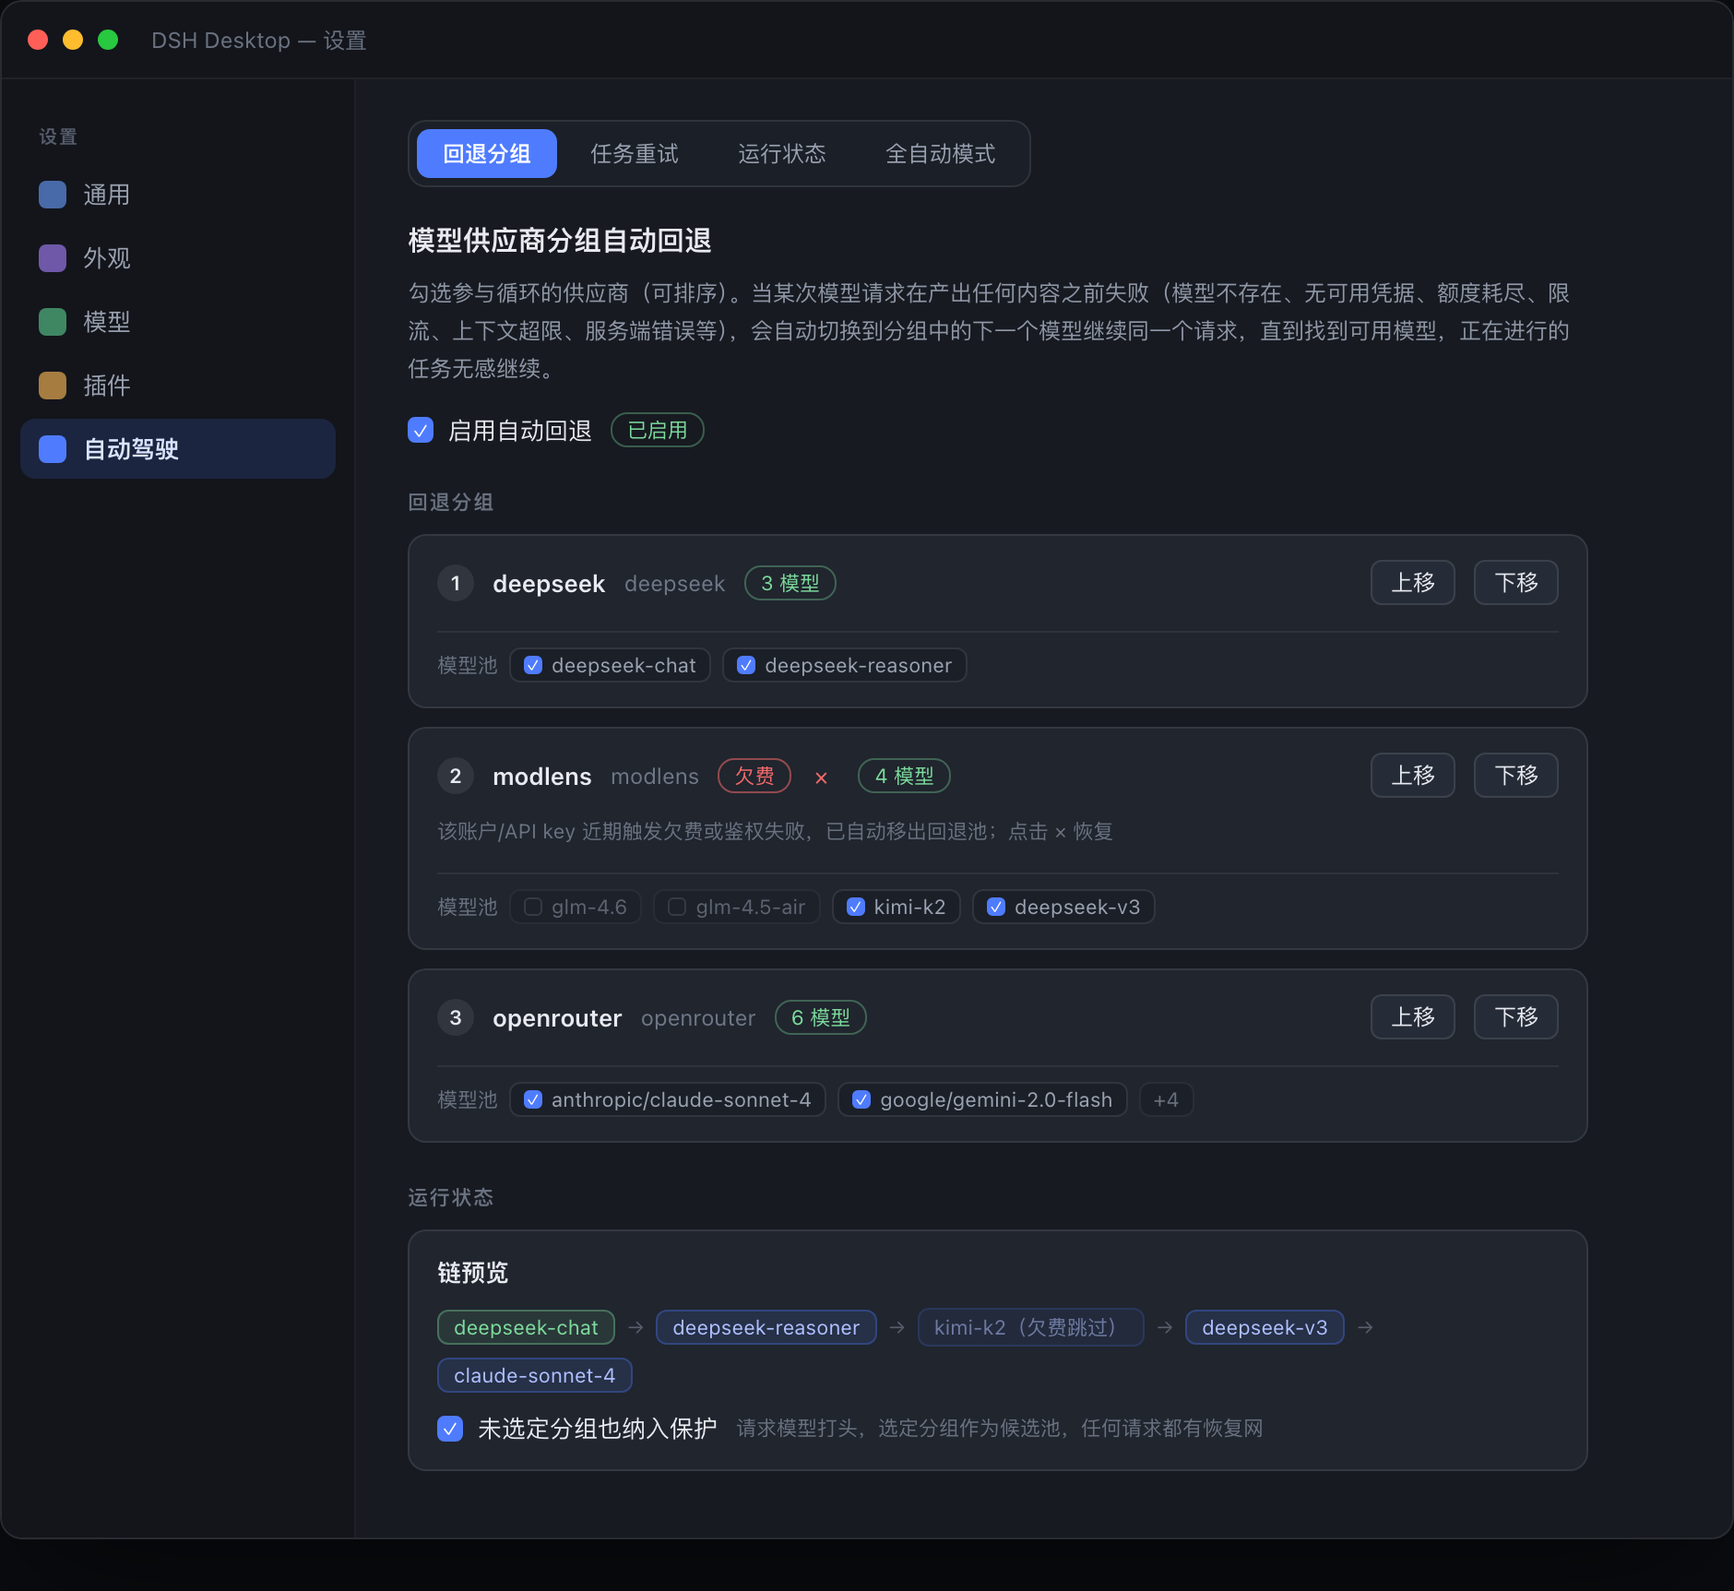
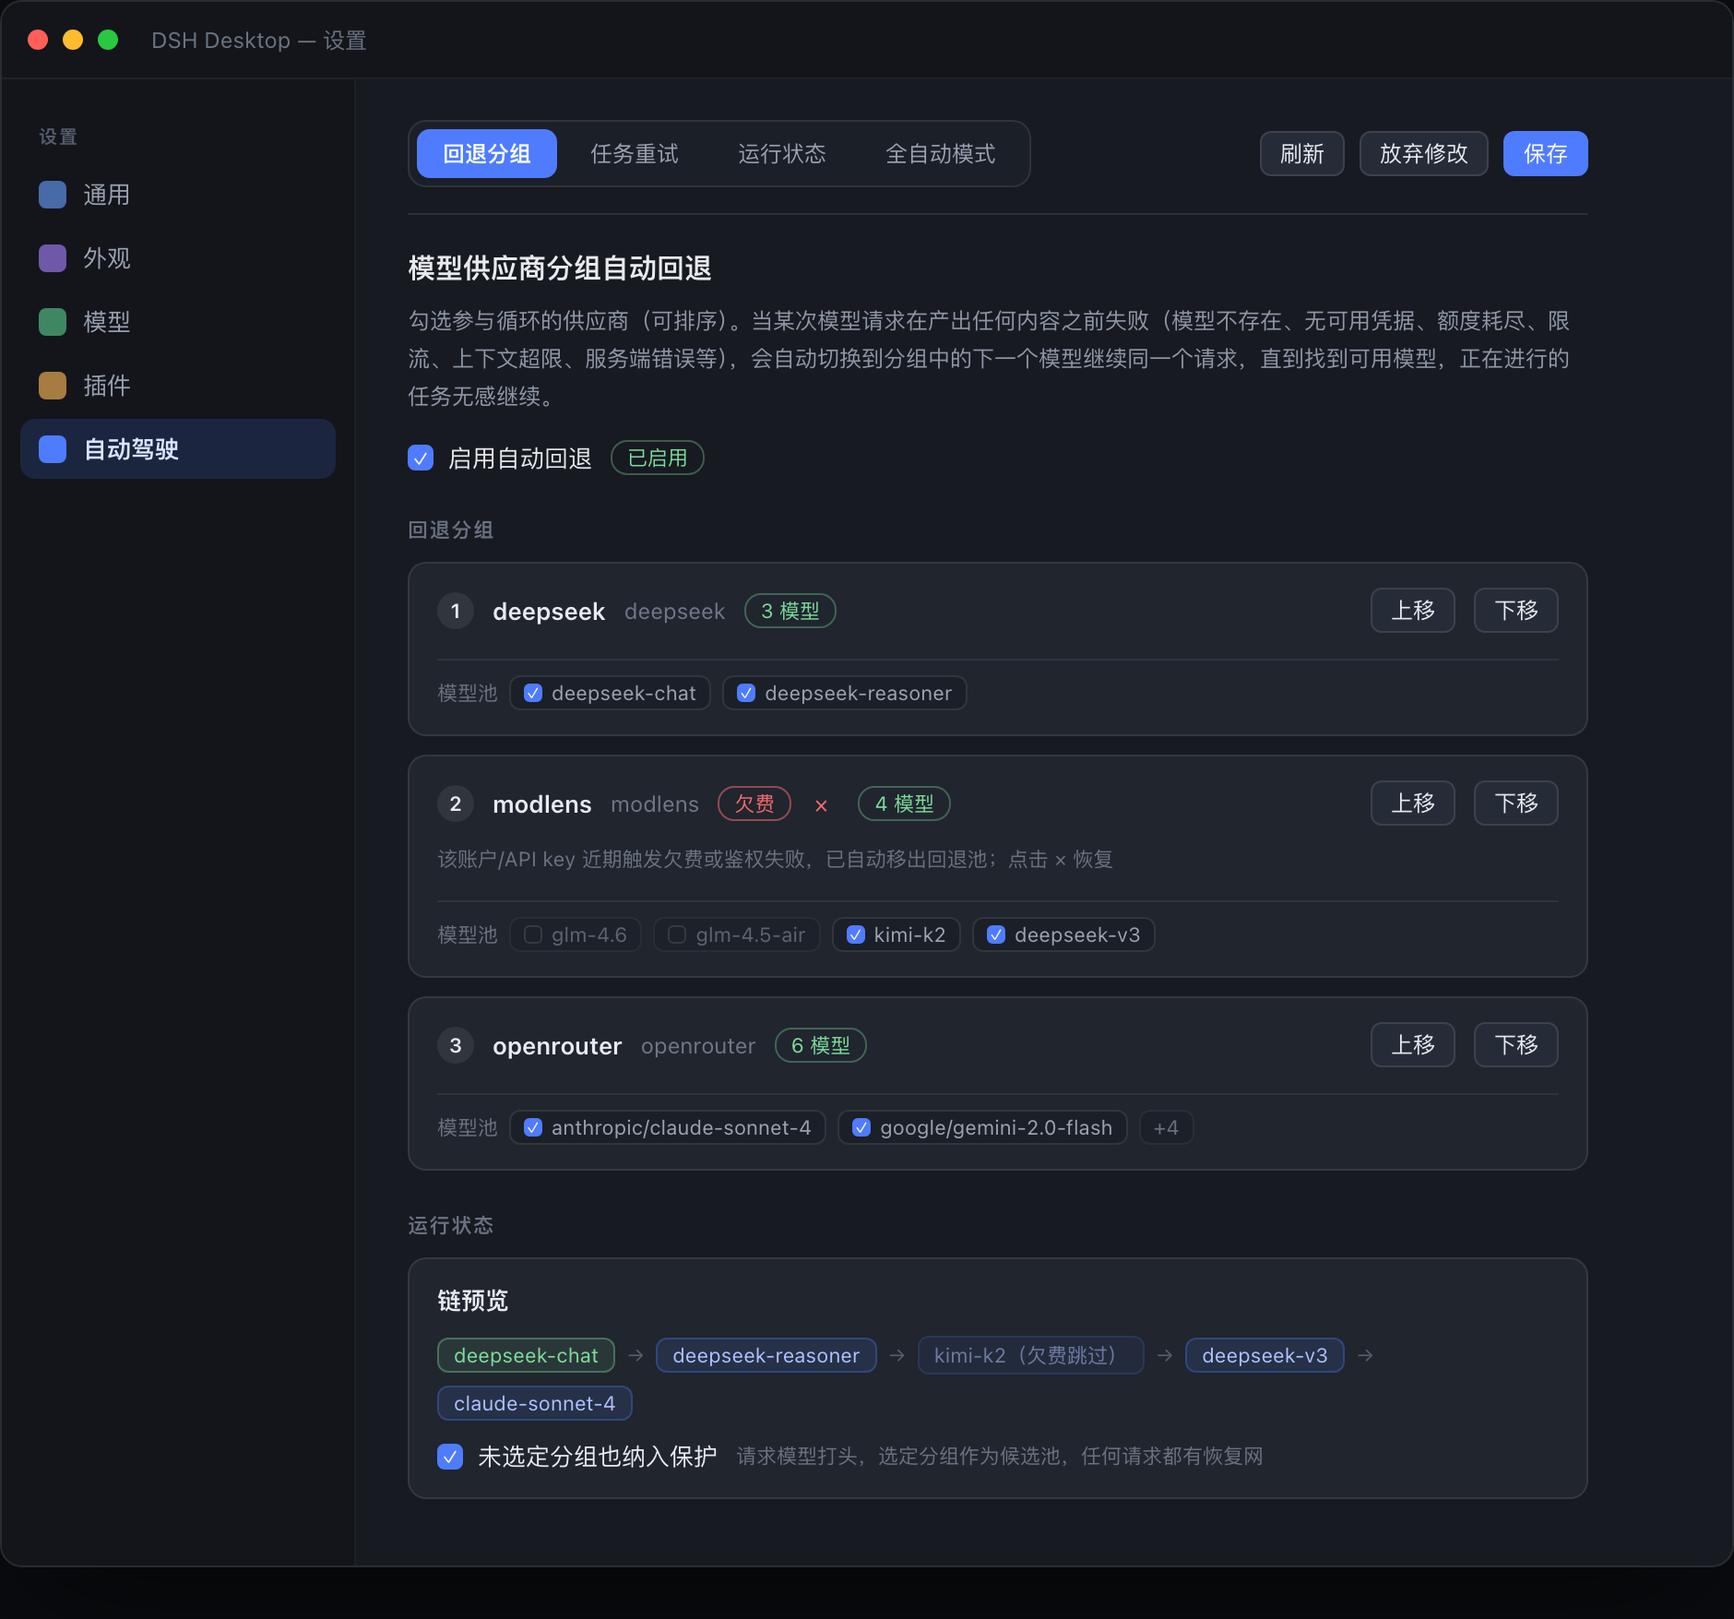
feat(client): 设置页固定工具栏（子菜单+操作按钮）；切换/自动审批统一气泡通知（单实例30秒）

diff --git a/lib/client.js b/lib/client.js
@@ -114,6 +114,14 @@ window.__ModuleLoader__.load({
 			`.dshmfb-tabDot{width:6px;height:6px;border-radius:999px;background:var(--mfb-amber);flex:none}`,
 			`.dshmfb-tabPane{display:flex;flex-direction:column;gap:14px}`,
 			`.dshmfb-tabPaneOff{display:none}`,
+			// ── sticky toolbar: sub-menu left, page actions right ──
+			`.dshmfb-toolbar{position:sticky;top:0;z-index:20;display:flex;align-items:center;gap:10px;flex-wrap:wrap;background:var(--dsw-alias-bg-layer-1,#171a21);margin:-6px 0 -4px;padding:10px 0 12px;border-bottom:1px solid var(--mfb-border)}`,
+			`.dshmfb-toolbarActions{margin-left:auto;display:inline-flex;align-items:center;gap:8px;flex-wrap:wrap}`,
+			// ── toast bubble (README mockup style: amber pill, single instance) ──
+			`.dshmfb-toastHost{position:fixed;top:18px;right:18px;z-index:2147483000;pointer-events:none;display:flex;flex-direction:column;align-items:flex-end}`,
+			`.dshmfb-toast{display:inline-flex;align-items:center;gap:8px;padding:8px 16px;border-radius:999px;background:rgba(224,162,76,.12);border:1px solid rgba(224,162,76,.45);color:#ecc387;font-size:12px;line-height:1.5;box-shadow:0 8px 24px rgba(0,0,0,.28);opacity:0;transform:translateY(-8px);transition:opacity .2s ease,transform .2s ease;max-width:min(420px,calc(100vw - 48px));pointer-events:auto;overflow-wrap:anywhere}`,
+			`.dshmfb-toastShow .dshmfb-toast{opacity:1;transform:translateY(0)}`,
+			`.dshmfb-toastDot{width:7px;height:7px;border-radius:999px;background:#e0a24c;box-shadow:0 0 6px rgba(224,162,76,.8);flex:none}`,
 			`.dshmfb-arrearsClose{margin-left:2px;border:none;background:transparent;color:var(--mfb-red);cursor:pointer;font-size:14px;line-height:1;padding:0 2px}`,
 			`.dshmfb-arrearsClose:hover:not(:disabled){color:#ff6b6b}`,
 			`.dshmfb-arrearsClose:disabled{opacity:.45;cursor:default}`,
@@ -1120,24 +1128,38 @@ window.__ModuleLoader__.load({
 			return h(
 				"div",
 				{ className: "dshmfb" },
-				// ── sub-menu bar: one settings tab, four function panes ──
+				// ── sticky toolbar: sub-menu left, page actions right ──
 				h(
 					"div",
-					{ className: "dshmfb-tabs", role: "tablist", "aria-label": t("rootNav") },
-					tabs.map((entry) =>
-						h(
-							"button",
-							{
-								key: entry.id,
-								type: "button",
-								className: tab === entry.id ? "dshmfb-tab dshmfb-tabOn" : "dshmfb-tab",
-								"aria-selected": tab === entry.id,
-								onClick: () => setTab(entry.id),
-							},
-							entry.label,
-							entry.dirty ? h("span", { key: "dot", className: "dshmfb-tabDot", title: t("unsaved") }) : null,
+					{ className: "dshmfb-toolbar" },
+					h(
+						"div",
+						{ className: "dshmfb-tabs", role: "tablist", "aria-label": t("rootNav") },
+						tabs.map((entry) =>
+							h(
+								"button",
+								{
+									key: entry.id,
+									type: "button",
+									className: tab === entry.id ? "dshmfb-tab dshmfb-tabOn" : "dshmfb-tab",
+									"aria-selected": tab === entry.id,
+									onClick: () => setTab(entry.id),
+								},
+								entry.label,
+								entry.dirty ? h("span", { key: "dot", className: "dshmfb-tabDot", title: t("unsaved") }) : null,
+							),
 						),
 					),
+					tab === "groups"
+						? h(
+								"div",
+								{ className: "dshmfb-toolbarActions" },
+								h("button", { className: "dshmfb-btn", type: "button", onClick: load, disabled: catalog.status === "loading" }, catalog.status === "loading" ? t("refreshing") : t("refresh")),
+								h("button", { className: "dshmfb-btn", type: "button", onClick: () => setDraft(null), disabled: !dirty || saving }, t("discard")),
+								h("button", { className: "dshmfb-btn dshmfb-primary", type: "button", onClick: save, disabled: !dirty || saving || !writable }, saving ? t("saving") : t("save")),
+								dirty && ready && !saving ? h("span", { className: "dshmfb-status" }, t("unsaved")) : null,
+							)
+						: null,
 				),
 
 				// ── pane 1: fallback groups (selection + strategies + save) ──
@@ -1194,15 +1216,6 @@ window.__ModuleLoader__.load({
 								),
 							)
 						: null,
-					// Group-section actions right under the list they govern.
-					h(
-						"div",
-						{ className: "dshmfb-footer" },
-						h("button", { className: "dshmfb-btn", type: "button", onClick: load, disabled: catalog.status === "loading" }, catalog.status === "loading" ? t("refreshing") : t("refresh")),
-						h("button", { className: "dshmfb-btn", type: "button", onClick: () => setDraft(null), disabled: !dirty || saving }, t("discard")),
-						h("button", { className: "dshmfb-btn dshmfb-primary", type: "button", onClick: save, disabled: !dirty || saving || !writable }, saving ? t("saving") : t("save")),
-						dirty && ready && !saving ? h("span", { className: "dshmfb-status" }, t("unsaved")) : null,
-					),
 				),
 
 				// ── pane 2: task retry (own card with its own save) ──
@@ -1237,22 +1250,115 @@ window.__ModuleLoader__.load({
 		}
 		//#endregion
 
-		/** Session/model services captured at apply() for the switch-visibility helpers. */
-		const switchServices = { sessions: null, modelDirectories: null };
+		/** Model-directory services captured at apply() for the selector sync helper. */
+		const switchServices = { modelDirectories: null };
+
+		//#region toast bubble (README mockup style: amber pill, single instance, 30 s)
+		const TOAST_MS = 30000;
+		let toastHideTimer = null;
+
+		function ensureToastHost() {
+			if (typeof document === "undefined") return null;
+			let host = document.getElementById("dshmfb-toast-host");
+			if (!host) {
+				host = document.createElement("div");
+				host.id = "dshmfb-toast-host";
+				host.className = "dshmfb-toastHost";
+				document.body.appendChild(host);
+			}
+			return host;
+		}
 
 		/**
-		 * Raise a notice in one session's input area (the same channel the
-		 * official queue dock uses), so a model switch is visible in the chat.
+		 * Show THE bubble: a single fixed-position pill (top-right) in the README
+		 * mockup style. A new toast replaces the current one (never stacks) and
+		 * stays visible for 30 s; identical text within 15 s only refreshes the
+		 * timer instead of replaying the entrance animation.
 		 */
-		function notifySession(sessionId, level, text) {
-			try {
-				const actx = switchServices.sessions?.scope(sessionId);
-				const conversation = actx?.get("conversation");
-				if (conversation === undefined) return;
-				conversation.input.for(actx).notify(level, text);
-			} catch {
-				// The session may have closed between the event and the notice.
+		function showToast(text) {
+			const host = ensureToastHost();
+			if (!host || !text) return;
+			const now = Date.now();
+			const refreshOnly = host.dataset.text === text && now - Number(host.dataset.at || 0) < TOAST_MS / 2;
+			const pill = document.createElement("div");
+			pill.className = "dshmfb-toast";
+			const dot = document.createElement("span");
+			dot.className = "dshmfb-toastDot";
+			const label = document.createElement("span");
+			label.textContent = String(text);
+			pill.appendChild(dot);
+			pill.appendChild(label);
+			host.replaceChildren(pill);
+			host.dataset.text = String(text);
+			host.dataset.at = String(now);
+			if (!refreshOnly) {
+				// restart the entrance animation
+				host.classList.remove("dshmfb-toastShow");
+				void host.offsetWidth;
 			}
+			host.classList.add("dshmfb-toastShow");
+			clearTimeout(toastHideTimer);
+			toastHideTimer = setTimeout(() => host.classList.remove("dshmfb-toastShow"), TOAST_MS);
+		}
+		//#endregion
+
+		/**
+		 * Human-readable toast for one ring event: model switch / recovery, or a
+		 * full-auto decision (auto-answered question / auto-allowed permission).
+		 * Returns { text, model } — model is set only for switch/recovery events
+		 * (the session pill uses it to sync the model selector).
+		 */
+		function ringEventText(entry, t) {
+			const switchMatch = /switching to ([^;)]+)$/.exec(entry.message) ?? /switching to ([^;)]+?);/.exec(entry.message);
+			const recoveredMatch = /request recovered on ([^ ]+) after/.exec(entry.message);
+			const autoAllowed = /auto-answered \((.+)\); logged/.exec(entry.message);
+			const autoPermission = /permission for "([^"]+)" auto-allowed/.exec(entry.message);
+			const model = switchMatch?.[1] ?? recoveredMatch?.[1];
+			if (model !== undefined) {
+				const from = String(entry.message.match(/^(?:model-fallback: )?([^ ]+) failed/) ?? ["", ""])[1];
+				const text = switchMatch
+					? t("switchNotify").replace("{from}", from).replace("{to}", model)
+					: t("switchRecovered").replace("{model}", model);
+				return { text, model };
+			}
+			if (autoAllowed) return { text: `${t("autoAnsweredNotice")}: ${autoAllowed[1]}` };
+			if (autoPermission) return { text: `${t("autoAllowedNotice")}: ${autoPermission[1]}` };
+			return null;
+		}
+
+		/**
+		 * Global toast feed: polls the event ring independently of any session so
+		 * fallback switches and full-auto decisions bubble up even when no
+		 * conversation input (and thus no session pill) is mounted — e.g. while
+		 * the user is on the settings page. Session pills poll faster with their
+		 * own cursors; identical text within 15 s only refreshes the toast.
+		 */
+		const globalFeed = { started: false, lastSeenAt: null };
+		async function pollRingForToasts(t) {
+			try {
+				const response = await fetch("/dsh-model-fallback/api/log", { cache: "no-store" });
+				if (!response.ok) return;
+				const payload = await response.json();
+				const events = Array.isArray(payload?.events) ? payload.events : [];
+				const fresh = globalFeed.lastSeenAt === null ? [] : events.filter((entry) => entry.at > globalFeed.lastSeenAt);
+				if (globalFeed.lastSeenAt === null) {
+					// First poll only anchors the watermark — no historical spam.
+					globalFeed.lastSeenAt = events.length > 0 ? events[0].at : new Date(0).toISOString();
+					return;
+				}
+				if (fresh.length > 0) globalFeed.lastSeenAt = fresh[0].at;
+				for (const entry of fresh.reverse()) {
+					const hit = ringEventText(entry, t);
+					if (hit !== null) showToast(hit.text);
+				}
+			} catch {
+				// The log route may be briefly unavailable; the next tick retries.
+			}
+		}
+		function startGlobalToastPoller(t) {
+			if (globalFeed.started || typeof document === "undefined") return;
+			globalFeed.started = true;
+			setInterval(() => void pollRingForToasts(t), 6000);
 		}
 
 		/**
@@ -1375,29 +1481,10 @@ window.__ModuleLoader__.load({
 						}
 						if (fresh.length > 0) lastSeenAt = fresh[0].at;
 						for (const entry of fresh.reverse()) {
-							const switchMatch = /switching to ([^;)]+)$/.exec(entry.message) ?? /switching to ([^;)]+?);/.exec(entry.message);
-							const recoveredMatch = /request recovered on ([^ ]+) after/.exec(entry.message);
-							const autoAllowed = /auto-answered \((.+)\); logged/.exec(entry.message);
-							const autoPermission = /permission for "([^"]+)" auto-allowed/.exec(entry.message);
-							const model = switchMatch?.[1] ?? recoveredMatch?.[1];
-							if (model !== undefined) {
-								const from = String(entry.message.match(/^(?:model-fallback: )?([^ ]+) failed/) ?? ["", ""])[1];
-								const text = switchMatch
-									? t("switchNotify").replace("{from}", from).replace("{to}", model)
-									: t("switchRecovered").replace("{model}", model);
-								notifySession(sessionId, entry.level === "warn" ? "warn" : "info", text);
-								syncModelSelection(sessionId, model).catch(() => {});
-								continue;
-							}
-							// Full-auto transparency: surface every automatic decision in
-							// the conversation so the user sees exactly what was allowed.
-							if (autoAllowed) {
-								notifySession(sessionId, "info", `${t("autoAnsweredNotice")}: ${autoAllowed[1]}`);
-								continue;
-							}
-							if (autoPermission) {
-								notifySession(sessionId, "info", `${t("autoAllowedNotice")}: ${autoPermission[1]}`);
-							}
+							const hit = ringEventText(entry, t);
+							if (hit === null) continue;
+							showToast(hit.text);
+							if (hit.model !== undefined) syncModelSelection(sessionId, hit.model).catch(() => {});
 						}
 					} catch {
 						// The log route may be briefly unavailable; the next tick retries.
@@ -1434,13 +1521,12 @@ window.__ModuleLoader__.load({
 			const connection = ctx.get("connection");
 			const settingsScope = ctx.get("settingsScope");
 			try {
-				ctx.inject(["sessions", "modelDirectories"], (scope) => {
-					switchServices.sessions = scope.sessions;
+				ctx.inject(["modelDirectories"], (scope) => {
 					switchServices.modelDirectories = scope.modelDirectories;
 				});
 			} catch {
-				// Without these services the pill still toggles; only the switch
-				// notices and selector sync stay off.
+				// Without these services the pill still toggles; only the selector
+				// sync stays off.
 			}
 			const controller = settingsScope.bind({ namespace: NS });
 			const autoController = settingsScope.bind({ namespace: "model-fallback-auto" });
@@ -1472,6 +1558,9 @@ window.__ModuleLoader__.load({
 					FallbackSection,
 				);
 			});
+			// Global toast feed: switch/recovery/auto-approval bubbles even when no
+			// session pill is mounted (e.g. on the settings page).
+			startGlobalToastPoller(t);
 		}
 		//#endregion
 

diff --git a/docs/src/shot-fallback.html b/docs/src/shot-fallback.html
@@ -13,7 +13,7 @@
       <div class="sb-item active"><span class="ico" style="background:#4f7cff"></span>自动驾驶</div>
     </div>
     <div class="content"><div class="content-inner">
-      <div class="tabs"><span class="tab on">回退分组</span><span class="tab">任务重试</span><span class="tab">运行状态</span><span class="tab">全自动模式</span></div>
+      <div class="toolbar"><div class="tabs"><span class="tab on">回退分组</span><span class="tab">任务重试</span><span class="tab">运行状态</span><span class="tab">全自动模式</span></div><div class="toolbar-actions"><span class="btn">刷新</span><span class="btn">放弃修改</span><span class="btn primary">保存</span></div></div>
       <h1 class="pg-title">模型供应商分组自动回退</h1>
       <p class="pg-desc">勾选参与循环的供应商（可排序）。当某次模型请求在产出任何内容之前失败（模型不存在、无可用凭据、额度耗尽、限流、上下文超限、服务端错误等），会自动切换到分组中的下一个模型继续同一个请求，直到找到可用模型，正在进行的任务无感继续。</p>
 

diff --git a/docs/src/base.css b/docs/src/base.css
@@ -171,3 +171,8 @@ p.pg-desc { margin: 0 0 4px; font-size: 12px; line-height: 1.7; color: #8f97a6; 
 .tabs{display:inline-flex;flex-wrap:wrap;gap:4px;padding:4px;border:1px solid rgba(255,255,255,.09);background:#1b1f27;border-radius:10px;width:fit-content;margin-bottom:18px}
 .tab{font-size:12px;color:#9aa2b1;background:transparent;border-radius:7px;padding:5px 14px;white-space:nowrap}
 .tab.on{background:#4f7cff;color:#fff;font-weight:600}
+
+/* sticky toolbar row: sub-menu left, page actions right */
+.toolbar{display:flex;align-items:center;gap:10px;margin-bottom:18px;border-bottom:1px solid rgba(255,255,255,.09);padding-bottom:14px}
+.toolbar .tabs{margin-bottom:0}
+.toolbar-actions{margin-left:auto;display:inline-flex;align-items:center;gap:8px}

diff --git a/README.md b/README.md
@@ -24,10 +24,11 @@
 - **🔄 任务自动重试** —— 所有候选都失败且错误属于**非模型异常**（网络超时、连接断开、服务端错误等）时，用同一模型自动重试（指数退避），直到成功或达到最大次数。用户主动中断永不重试。
 - **🤖 全自动模式** —— 开启后，任务运行中的权限索取、确认提问（含 `exit_plan_mode` 方案评审）全部按默认允许自动应答，任务不再卡在人工验证；每次自动决策都追加到工作区根目录的 **`AUTO-MODE.md`** 审计文件，随时可查。
 - **🏠 主页一键开关** —— 对话框输入条（发送按钮旁）有「自动驾驶」胶囊按钮，单击即在主页直接开/关全自动模式；与设置页「全自动模式」子页状态**实时双向同步**（双重轮询兜底），不会出现两处状态不一致。
+- **💨 实时气泡通知** —— 模型切换、恢复执行与全自动模式的每次自动审批（权限 / 提问 / 方案）都会实时弹出右上角气泡：与文档截图一致的胶囊样式，**同时只显示一个**（新通知替换旧通知）、保留 30 秒，任何页面（含设置页）均可见。
 
 ## 🎬 界面速览
 
-安装后会在 **设置** 界面新增一个「自动驾驶」标签页（排在「插件」之后），页内通过**子菜单栏**在「回退分组 / 任务重试 / 运行状态 / 全自动模式」四个功能页之间切换，各功能页的未保存草稿在切换后保留：
+安装后会在 **设置** 界面新增一个「自动驾驶」标签页（排在「插件」之后）。子菜单栏与「刷新 / 放弃修改 / 保存」操作按钮**固定在页面上方**，不随内容滚动；页内通过子菜单在「回退分组 / 任务重试 / 运行状态 / 全自动模式」四个功能页之间切换，各功能页的未保存草稿在切换后保留：
 
 | 「回退分组」子页 | 「全自动模式」子页 |
 | :---: | :---: |
